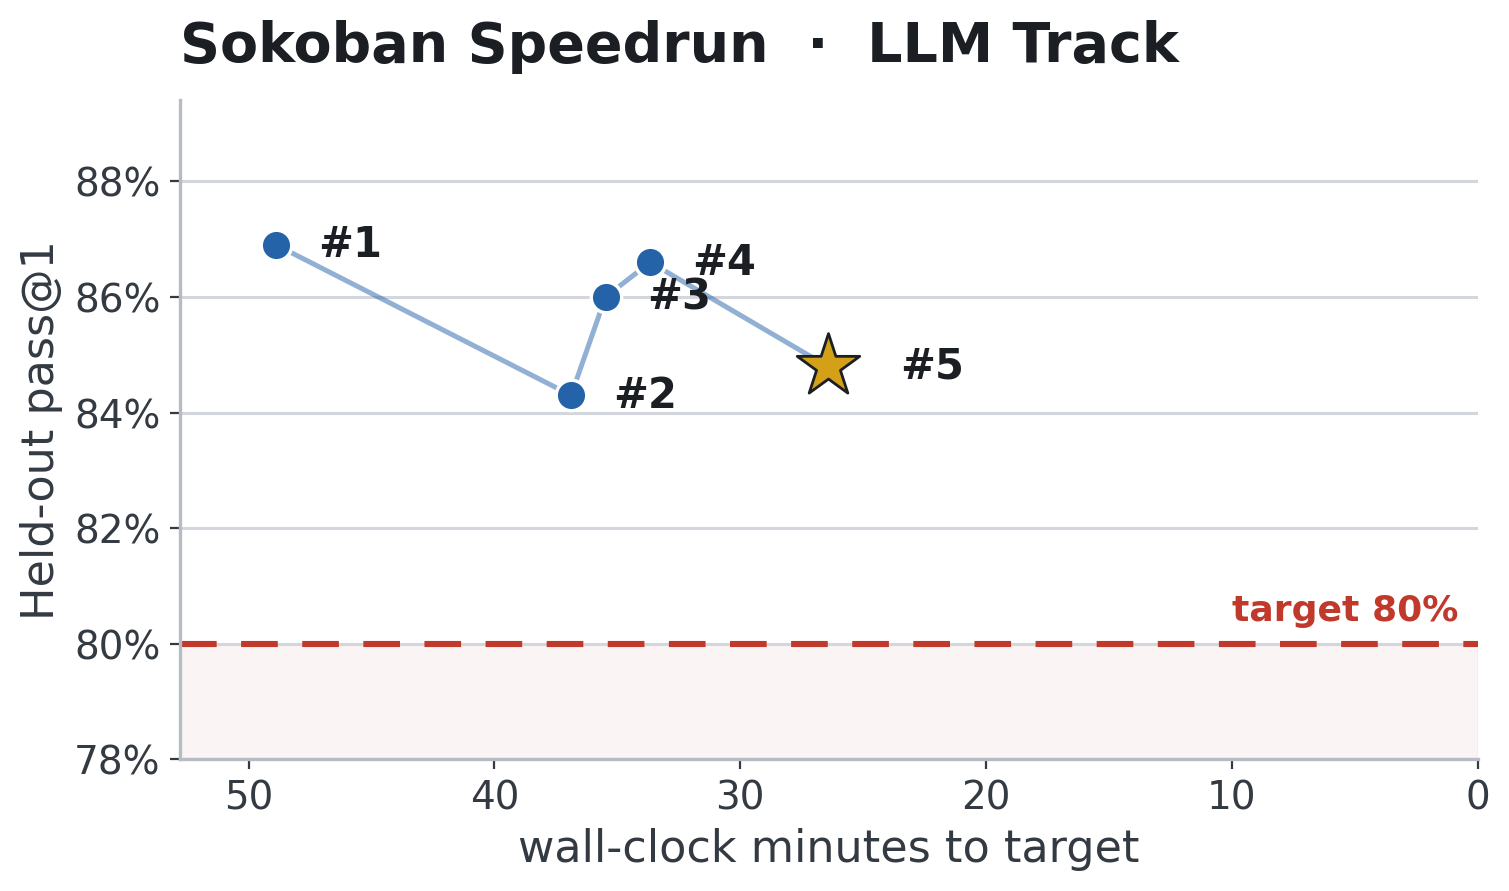
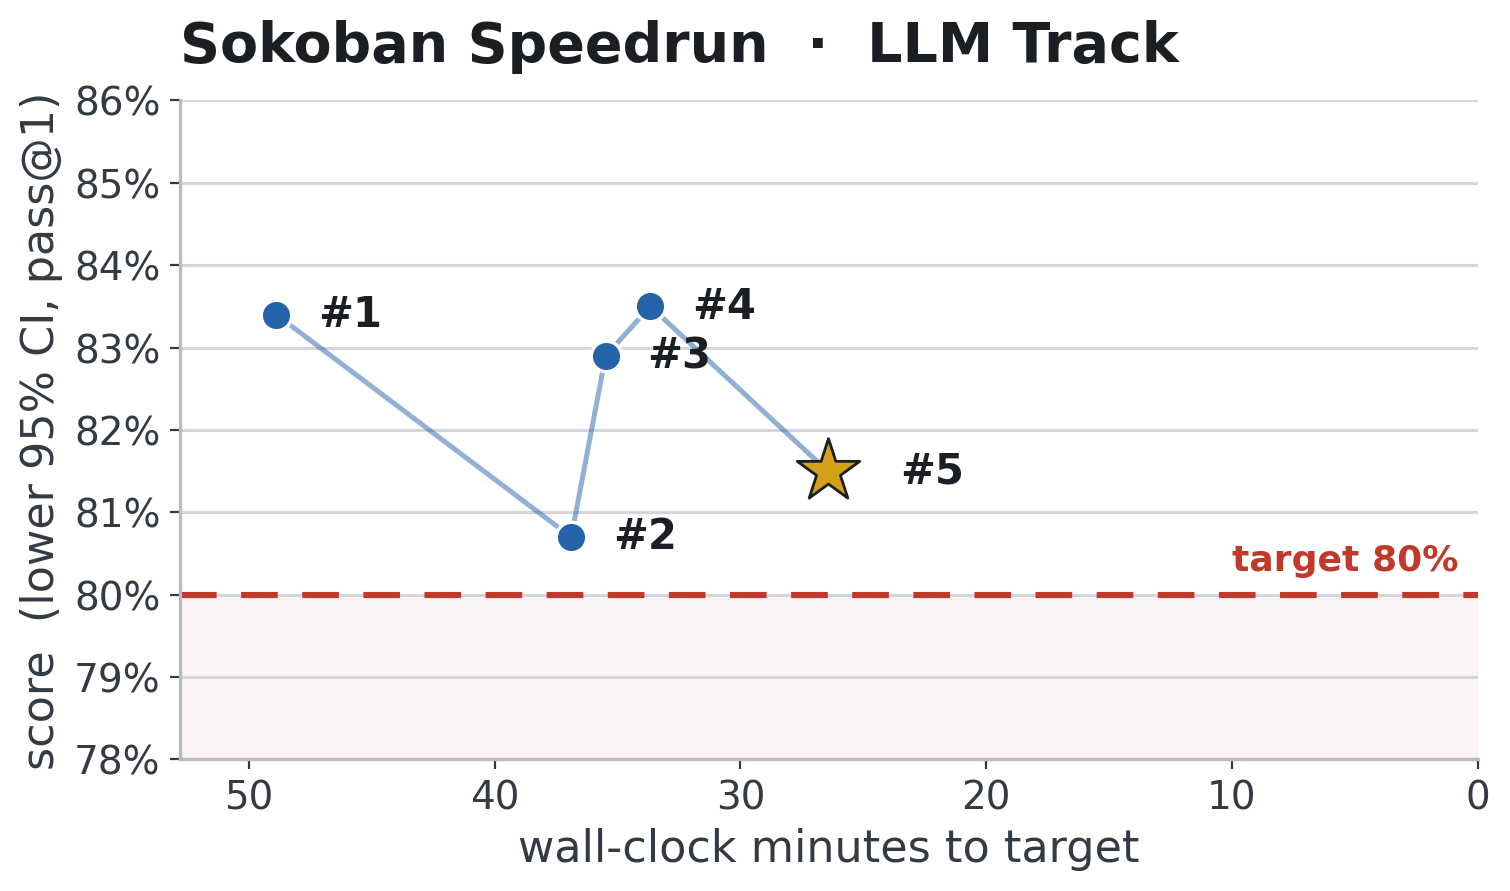
Standardize the leaderboard score on the gate-binding lower 95% CI
The gate has always bound on each run's lower 95% CI, but the leaderboard
reported the worst seed's *mean* (picked by mean, which can disagree with
worst-by-ci_low) and the record figures plotted it against the target line,
overstating the real gate margin — e.g. LLM record #5 plotted ~5 points
above the bar while its binding number, the verification seed's ci_low
0.815, appeared nowhere.

Score = the worst run's lower 95% CI, used everywhere:

- Rules: one-line Score definition per track; Verification bullet reports
  the worse of the two runs' scores.
- Tables: single-value score cells, backfilled for all 10 records from the
  committed submission + verification eval JSONs.
- update_leaderboard_row: worst run picked by ci_low; writes the new cell.
- Leaderboard figures: plot the score, so height above the target line IS
  the gate margin; y-labels unified across tracks.
- Hero card: headlines the score instead of the mean pass@1.

Per-seed means and full CIs remain in each record's README artifacts.
Verified by refreshing every leaderboard row from record artifacts (all 10
print "already current") and re-rendering the hero card.

Claude-Session: https://claude.ai/code/session_01CnquyiLAeFft9WrQqQ9G1e

diff --git a/make_record_report.py b/make_record_report.py
@@ -474,7 +474,7 @@ def plot_eval(record: dict, target: float, out: Path) -> None:
 
 def plot_hero_card(record: dict, target: float, out: Path,
                    online_frames: list[pd.DataFrame] | None = None, subtitle: str = "") -> None:
-    """Clean 16:9 record card: training climb, record time, pass@1, target."""
+    """Clean 16:9 record card: training climb, record time, score, target."""
     logs, evals = record["logs"], record["evals"]
     fig = plt.figure(figsize=(12.8, 7.2), constrained_layout=False)
     gs = fig.add_gridspec(1, 2, width_ratios=[1.5, 1.0],
@@ -508,18 +508,19 @@ def plot_hero_card(record: dict, target: float, out: Path,
     ax_main.set_title("")
 
     final_time = logs[sorted(logs)[0]]["final_time_s"]
-    p1s = [e["pass_at_1"] for e in evals.values()]
-    p1 = sum(p1s) / len(p1s)
+    # The record's score: the worst run's lower 95% CI — the same gate-binding number the
+    # leaderboard reports (the verification rerun, assembled later, can only lower it).
+    score = min(e["ci_low"] for e in evals.values())
 
     ax_card.text(0.0, 0.82, "RECORD", color=MUTED, fontsize=17,
                  fontweight="bold", va="top")
     ax_card.text(0.0, 0.72, fmt_clock(final_time), color=INK, fontsize=52,
                  fontweight="bold", va="top")
-    ax_card.text(0.0, 0.45, "HELD-OUT PASS@1", color=MUTED, fontsize=17,
+    ax_card.text(0.0, 0.45, "SCORE  ·  LOWER 95% CI", color=MUTED, fontsize=17,
                  fontweight="bold", va="top")
-    ax_card.text(0.0, 0.36, f"{p1:.1%}", color=SEED_COLORS[0], fontsize=78,
+    ax_card.text(0.0, 0.36, f"{score:.1%}", color=SEED_COLORS[0], fontsize=78,
                  fontweight="bold", va="top")
-    ax_card.text(0.0, 0.12, f"lower CI > {target:.0%}", color=TARGET_C, fontsize=22,
+    ax_card.text(0.0, 0.12, f"target > {target:.0%}", color=TARGET_C, fontsize=22,
                  fontweight="bold", va="top")
     fig.savefig(out); plt.close(fig)
 
@@ -563,7 +564,7 @@ TRACKS = {
         "show_flops": False,
         "lb_section": "LLM Track",          # README world-record table heading
         "lb_title": "Sokoban Speedrun  ·  LLM Track",
-        "lb_metric": "Held-out pass@1",
+        "lb_metric": "score  (lower 95% CI, pass@1)",
         "lb_out": "assets/llm_records.png",
         "reproduce": [
             "# train on one 8xH100 node (the recipe is baked into speedrun.py's RECIPE — no recipe flags)",
@@ -585,7 +586,7 @@ TRACKS = {
         "show_flops": False,   # open-architecture track: a FLOPs estimator can't stay faithful across archs
         "lb_section": "Non-LLM Track",      # README world-record table heading
         "lb_title": "Sokoban Speedrun  ·  Non-LLM Track",
-        "lb_metric": "Held-out solve rate",
+        "lb_metric": "score  (lower 95% CI, solve rate)",
         "lb_out": "assets/non_llm_records.png",
         "reproduce": [
             "# train (the record recipe is baked into speedrun.py's RECIPE — no recipe flags or env needed)",
@@ -601,11 +602,13 @@ TRACKS = {
 
 # --- Leaderboard figure (README world-record tables -> assets/*.png) ---------
 # One light, academic plot per track: each accepted record is a point at
-# (wall-clock time to target, held-out accuracy), with the fixed target dashed.
-# Faster is right, more accurate is up, so successive records march toward the
-# top-right — the same spirit as modded-nanoGPT's `figure_wr_vs_base`. The data is
-# read straight from the README leaderboard tables, so the figure fills in as
-# faster records land. Regenerate after editing a row: `--leaderboard`.
+# (wall-clock time to target, score), with the fixed target dashed. The score is
+# the gate-binding number — the worst run's lower 95% CI — so a point's height
+# above the target line IS its gate margin. Faster is right, higher-scoring is up,
+# so successive records march toward the top-right — the same spirit as
+# modded-nanoGPT's `figure_wr_vs_base`. The data is read straight from the README
+# leaderboard tables, so the figure fills in as faster records land. Regenerate
+# after editing a row: `--leaderboard`.
 LB_INK = "#1b1f24"      # titles / record labels
 LB_MUTED = "#333a42"    # axis labels, ticks (darkened for feed contrast)
 LB_GRID = "#d3d7dd"     # grid (darker so it survives X's downscale + re-encode)
@@ -626,7 +629,7 @@ def parse_leaderboard(section: str) -> list[dict]:
     The single parser of the leaderboard tables (plot_leaderboard here plus the
     per-track overlay in plot_track_train_solve_rate.py), so a column change only
     has one home: num, clock (verbatim mm:ss), minutes, desc, dir (record-dir name
-    from the Log link, or None), acc."""
+    from the Log link, or None), score (worst run's lower 95% CI)."""
     text = (REPO_ROOT / "README.md").read_text()
     block = next((s for s in re.split(r"^## ", text, flags=re.M) if s.startswith(section)), None)
     if block is None:
@@ -643,7 +646,7 @@ def parse_leaderboard(section: str) -> list[dict]:
             "minutes": _lb_minutes(cells[1]),
             "desc": cells[2].replace("`", ""),
             "dir": Path(link.group(1)).name if link else None,
-            "acc": float(re.search(r"[\d.]+", cells[5]).group()),
+            "score": float(re.search(r"[\d.]+", cells[5]).group()),
         })
     return sorted(out, key=lambda r: r["num"])
 
@@ -674,7 +677,7 @@ def plot_leaderboard(cfg: dict) -> None:
     if not recs:
         print(f"no records under '{cfg['lb_section']}' in README — skipped {out.name}")
         return
-    target, accs = cfg["target"], [r["acc"] for r in recs]
+    target, scores = cfg["target"], [r["score"] for r in recs]
     best = min(range(len(recs)), key=lambda i: recs[i]["minutes"])
     x_max = max(r["minutes"] for r in recs)
 
@@ -683,7 +686,7 @@ def plot_leaderboard(cfg: dict) -> None:
     # target near the bottom (thin "below target" strip), records near the top
     # only a little headroom past the slowest record — keep the left whitespace tight
     ax.set_xlim(x_max * 1.08, 0)
-    ax.set_ylim(max(0.0, target - 0.02), min(1.0, max(accs) + 0.025))
+    ax.set_ylim(max(0.0, target - 0.02), min(1.0, max(scores) + 0.025))
 
     ax.axhspan(ax.get_ylim()[0], target, color=LB_TARGET, alpha=0.05, zorder=0)
     ax.axhline(target, color=LB_TARGET, lw=2.2, ls=(0, (6, 4)), zorder=2)
@@ -694,19 +697,19 @@ def plot_leaderboard(cfg: dict) -> None:
     # connect successive records (only meaningful with >= 2); each clears the target
     order = sorted(range(len(recs)), key=lambda i: recs[i]["num"])
     if len(recs) > 1:
-        ax.plot([recs[i]["minutes"] for i in order], [recs[i]["acc"] for i in order],
+        ax.plot([recs[i]["minutes"] for i in order], [recs[i]["score"] for i in order],
                 color=LB_ACCENT, lw=1.8, alpha=0.5, zorder=3)
 
     for i, r in enumerate(recs):
         if i == best:
-            ax.scatter([r["minutes"]], [r["acc"]], marker="*", s=560, color=LB_RECORD,
+            ax.scatter([r["minutes"]], [r["score"]], marker="*", s=560, color=LB_RECORD,
                        edgecolors=LB_INK, linewidths=1.0, zorder=6)
             dx = 26
         else:
-            ax.scatter([r["minutes"]], [r["acc"]], s=120, color=LB_ACCENT,
+            ax.scatter([r["minutes"]], [r["score"]], s=120, color=LB_ACCENT,
                        edgecolors="white", linewidths=1.2, zorder=5)
             dx = 15
-        ax.annotate(f"#{r['num']}", xy=(r["minutes"], r["acc"]), xytext=(dx, 0),
+        ax.annotate(f"#{r['num']}", xy=(r["minutes"], r["score"]), xytext=(dx, 0),
                     textcoords="offset points", ha="left", va="center",
                     color=LB_INK, fontsize=15, fontweight="bold")
 
@@ -742,14 +745,14 @@ def update_leaderboard_row(record_dir: Path, track: str) -> None:
     seed = sorted(rec["logs"])[0]
     s = int(rec["logs"][seed]["final_time_s"])
     clock = fmt_clock(s)  # mm:ss (both tracks' headers)
-    # Report the WORST of the required seeds (submission run + verification rerun), not the
-    # submission seed alone. Both seeds must clear the bar, so the binding (lower) one is the
-    # honest, un-cherry-pickable quality signal — it stops a submitter from seed-shopping the
-    # headline. The *ranking* is still wall-clock (the submission run's clock, set above).
+    # The score column is the WORST lower 95% CI across the required runs (submission +
+    # verification rerun), not the submission run alone. The gate binds on each run's ci_low,
+    # so the minimum is the honest, un-cherry-pickable quality signal — it stops a submitter
+    # from seed-shopping the headline, and its distance above the target is the true gate
+    # margin. The *ranking* is still wall-clock (the submission run's clock, set above).
     eval_paths = sorted(record_dir.glob("eval_seed*.json")) + \
         sorted((record_dir / "verification").glob("eval_seed*.json"))
-    ev = min((json.loads(p.read_text()) for p in eval_paths), key=lambda e: e["pass_at_1"])
-    acc = f"{ev['pass_at_1']:.3f} (CI [{ev['ci_low']:.2f}, {ev['ci_high']:.2f}])"
+    acc = f"{min(json.loads(p.read_text())['ci_low'] for p in eval_paths):.3f}"
 
     name = record_dir.name                                     # e.g. 2026-06-29_01_grpo
     m = re.match(r"(\d{4}-\d{2}-\d{2})_(\d+)", name)

diff --git a/README.md b/README.md
@@ -12,27 +12,27 @@ Fastest recipes to RL models to solve Sokoban to a held-out target on one node:
 
 ### World record history
 
-![LLM track world records — held-out pass@1 vs wall-clock time to target](assets/llm_records.png)
+![LLM track world records — held-out score (lower 95% CI) vs wall-clock time to target](assets/llm_records.png)
 
-| #   | Record time (mm:ss) | Description                        | Date       | Log                                                          | held-out pass@1         | Contributors |
-| --- | ------------------- | ---------------------------------- | ---------- | ------------------------------------------------------------ | ----------------------- | ------------ |
-| 1   | 48:53               | GRPO, LR 1.6e-6 annealed, 75 steps | 2026-06-29 | [llm/records/2026-06-29_01](llm/records/2026-06-29_01_grpo/) | 0.869 (CI [0.83, 0.90]) | @JeanKaddour |
-| 2   | 36:53               | steps + LR-decay horizon 75 → 60   | 2026-06-29 | [llm/records/2026-06-29_02](llm/records/2026-06-29_02_grpo_60step/) | 0.843 (CI [0.81, 0.88]) | @dexhunter   |
-| 3   | 35:29               | earlier stop: 54 steps             | 2026-07-02 | [llm/records/2026-07-02_01](llm/records/2026-07-02_01_grpo_54step/) | 0.860 (CI [0.83, 0.89]) | @dexhunter   |
-| 4 | 33:40 | Weco advantage shaping, 52 steps | 2026-07-02 | [llm/records/2026-07-02_02](llm/records/2026-07-02_02_weco_strategy_52step/) | 0.866 (CI [0.83, 0.90]) | @dexhunter |
-| 5 | 26:27 | rollout budget 5632 → 4800 tokens, 48 steps | 2026-07-02 | [llm/records/2026-07-02_03](llm/records/2026-07-02_03_grpo_48step/) | 0.848 (CI [0.82, 0.88]) | @lorenzflow |
+| #   | Record time (mm:ss) | Description                        | Date       | Log                                                          | score | Contributors |
+| --- | ------------------- | ---------------------------------- | ---------- | ------------------------------------------------------------ | ----- | ------------ |
+| 1   | 48:53               | GRPO, LR 1.6e-6 annealed, 75 steps | 2026-06-29 | [llm/records/2026-06-29_01](llm/records/2026-06-29_01_grpo/) | 0.834 | @JeanKaddour |
+| 2   | 36:53               | steps + LR-decay horizon 75 → 60   | 2026-06-29 | [llm/records/2026-06-29_02](llm/records/2026-06-29_02_grpo_60step/) | 0.807 | @dexhunter   |
+| 3   | 35:29               | earlier stop: 54 steps             | 2026-07-02 | [llm/records/2026-07-02_01](llm/records/2026-07-02_01_grpo_54step/) | 0.829 | @dexhunter   |
+| 4 | 33:40 | Weco advantage shaping, 52 steps | 2026-07-02 | [llm/records/2026-07-02_02](llm/records/2026-07-02_02_weco_strategy_52step/) | 0.835 | @dexhunter |
+| 5 | 26:27 | rollout budget 5632 → 4800 tokens, 48 steps | 2026-07-02 | [llm/records/2026-07-02_03](llm/records/2026-07-02_03_grpo_48step/) | 0.815 | @lorenzflow |
 
 
 ### Rules
 
 Fastest wall-clock run wins: one run on one 8xH100 node, from training step 1 through the final training update.
 
-- **Target:** lower 95% bootstrap CI > 0.80 on [llm/datasets/sokoban_eval.jsonl](llm/datasets/sokoban_eval.jsonl).
+- **Score:** the lower 95% bootstrap CI of pass@1 on [llm/datasets/sokoban_eval.jsonl](llm/datasets/sokoban_eval.jsonl) — a record must score > **0.80**.
 - **Eval:** 8 completions/puzzle, 12,288 tokens, temperature 0.8, top-p 0.95, seed 12345.
 - **Fixed:** model, [train set](llm/datasets/sokoban_train.jsonl), eval set, reward function, hardware.
 - **Open:** RL algorithm, loss, schedules, engine, parallelism, domain-agnostic rewards, prompt.
 - **Not allowed:** Sokoban-specific hints, heuristics, or few-shot examples.
-- **Verification:** Rerun with a second seed; both runs must clear the target. The held-out pass@1 column reports the worst of the two seeds.
+- **Verification:** Rerun with a second seed; both runs must score above the target. The score column reports the worse of the two runs.
 
 ### Running
 
@@ -49,25 +49,25 @@ This track uses [PufferLib's](https://github.com/pufferai/pufferlib) Boxoban env
 
 ### World record history
 
-![Non-LLM track world records — held-out solve-rate vs wall-clock time to target](assets/non_llm_records.png)
+![Non-LLM track world records — held-out score (lower 95% CI) vs wall-clock time to target](assets/non_llm_records.png)
 
-| #   | Record time (mm:ss) | Description     | Date       | Log                                                                     | held-out pass@1         | Contributors |
-| --- | ------------------- | --------------- | ---------- | ----------------------------------------------------------------------- | ----------------------- | ------------ |
-| 1   | 22:24               | cnn-mingru h256 | 2026-06-21 | [non_llm/records/2026-06-21_01](non_llm/records/2026-06-21_01_non_llm/) | 0.744 (CI [0.72, 0.77]) | @JeanKaddour |
-| 2 | 21:00 | same recipe as #1, earliest clearing checkpoint | 2026-06-29 | [non_llm/records/2026-06-29_01](non_llm/records/2026-06-29_01_non_llm/) | 0.727 (CI [0.70, 0.75]) | @JeanKaddour |
-| 3 | 15:55 | torch.compile + steps-matched-anneal | 2026-06-30 | [non_llm/records/2026-06-30_01](non_llm/records/2026-06-30_01_non_llm/) | 0.748 (CI [0.72, 0.77]) | @JeanKaddour |
-| 4 | 14:42 | anneal horizon tuned 1300→1200 steps | 2026-07-02 | [non_llm/records/2026-07-02_01](non_llm/records/2026-07-02_01_non_llm/) | 0.736 (CI [0.71, 0.76]) | @JeanKaddour |
-| 5 | 12:38 | conv-free shift + pooled-global encoder (`sgpm2`), 950-step anneal | 2026-07-02 | [non_llm/records/2026-07-02_02](non_llm/records/2026-07-02_02_non_llm/) | 0.741 (CI [0.72, 0.77]) | @srijanpatel |
+| #   | Record time (mm:ss) | Description     | Date       | Log                                                                     | score | Contributors |
+| --- | ------------------- | --------------- | ---------- | ----------------------------------------------------------------------- | ----- | ------------ |
+| 1   | 22:24               | cnn-mingru h256 | 2026-06-21 | [non_llm/records/2026-06-21_01](non_llm/records/2026-06-21_01_non_llm/) | 0.718 | @JeanKaddour |
+| 2 | 21:00 | same recipe as #1, earliest clearing checkpoint | 2026-06-29 | [non_llm/records/2026-06-29_01](non_llm/records/2026-06-29_01_non_llm/) | 0.701 | @JeanKaddour |
+| 3 | 15:55 | torch.compile + steps-matched-anneal | 2026-06-30 | [non_llm/records/2026-06-30_01](non_llm/records/2026-06-30_01_non_llm/) | 0.706 | @JeanKaddour |
+| 4 | 14:42 | anneal horizon tuned 1300→1200 steps | 2026-07-02 | [non_llm/records/2026-07-02_01](non_llm/records/2026-07-02_01_non_llm/) | 0.709 | @JeanKaddour |
+| 5 | 12:38 | conv-free shift + pooled-global encoder (`sgpm2`), 950-step anneal | 2026-07-02 | [non_llm/records/2026-07-02_02](non_llm/records/2026-07-02_02_non_llm/) | 0.715 | @srijanpatel |
 
 
 ### Rules
 
 Fastest wall-clock run wins: one run on a single H100, from training step 1 through the final training update.
 
-- **Target:** lower 95% CI on held-out Boxoban solve-rate > **0.70**.
+- **Score:** the lower 95% CI of the held-out solve rate — a record must score > **0.70**.
 - **Eval:** official [DeepMind Boxoban](https://github.com/google-deepmind/boxoban-levels) test split `unfiltered/test`.
 - **Open:** policy architecture, RL algorithm, optimizer, schedules, implementation.
-- **Verification:** Rerun with a second seed; both runs must clear the target. The held-out pass@1 column reports the worst of the two seeds.
+- **Verification:** Rerun with a second seed; both runs must score above the target. The score column reports the worse of the two runs.
 
 ### Running
 
